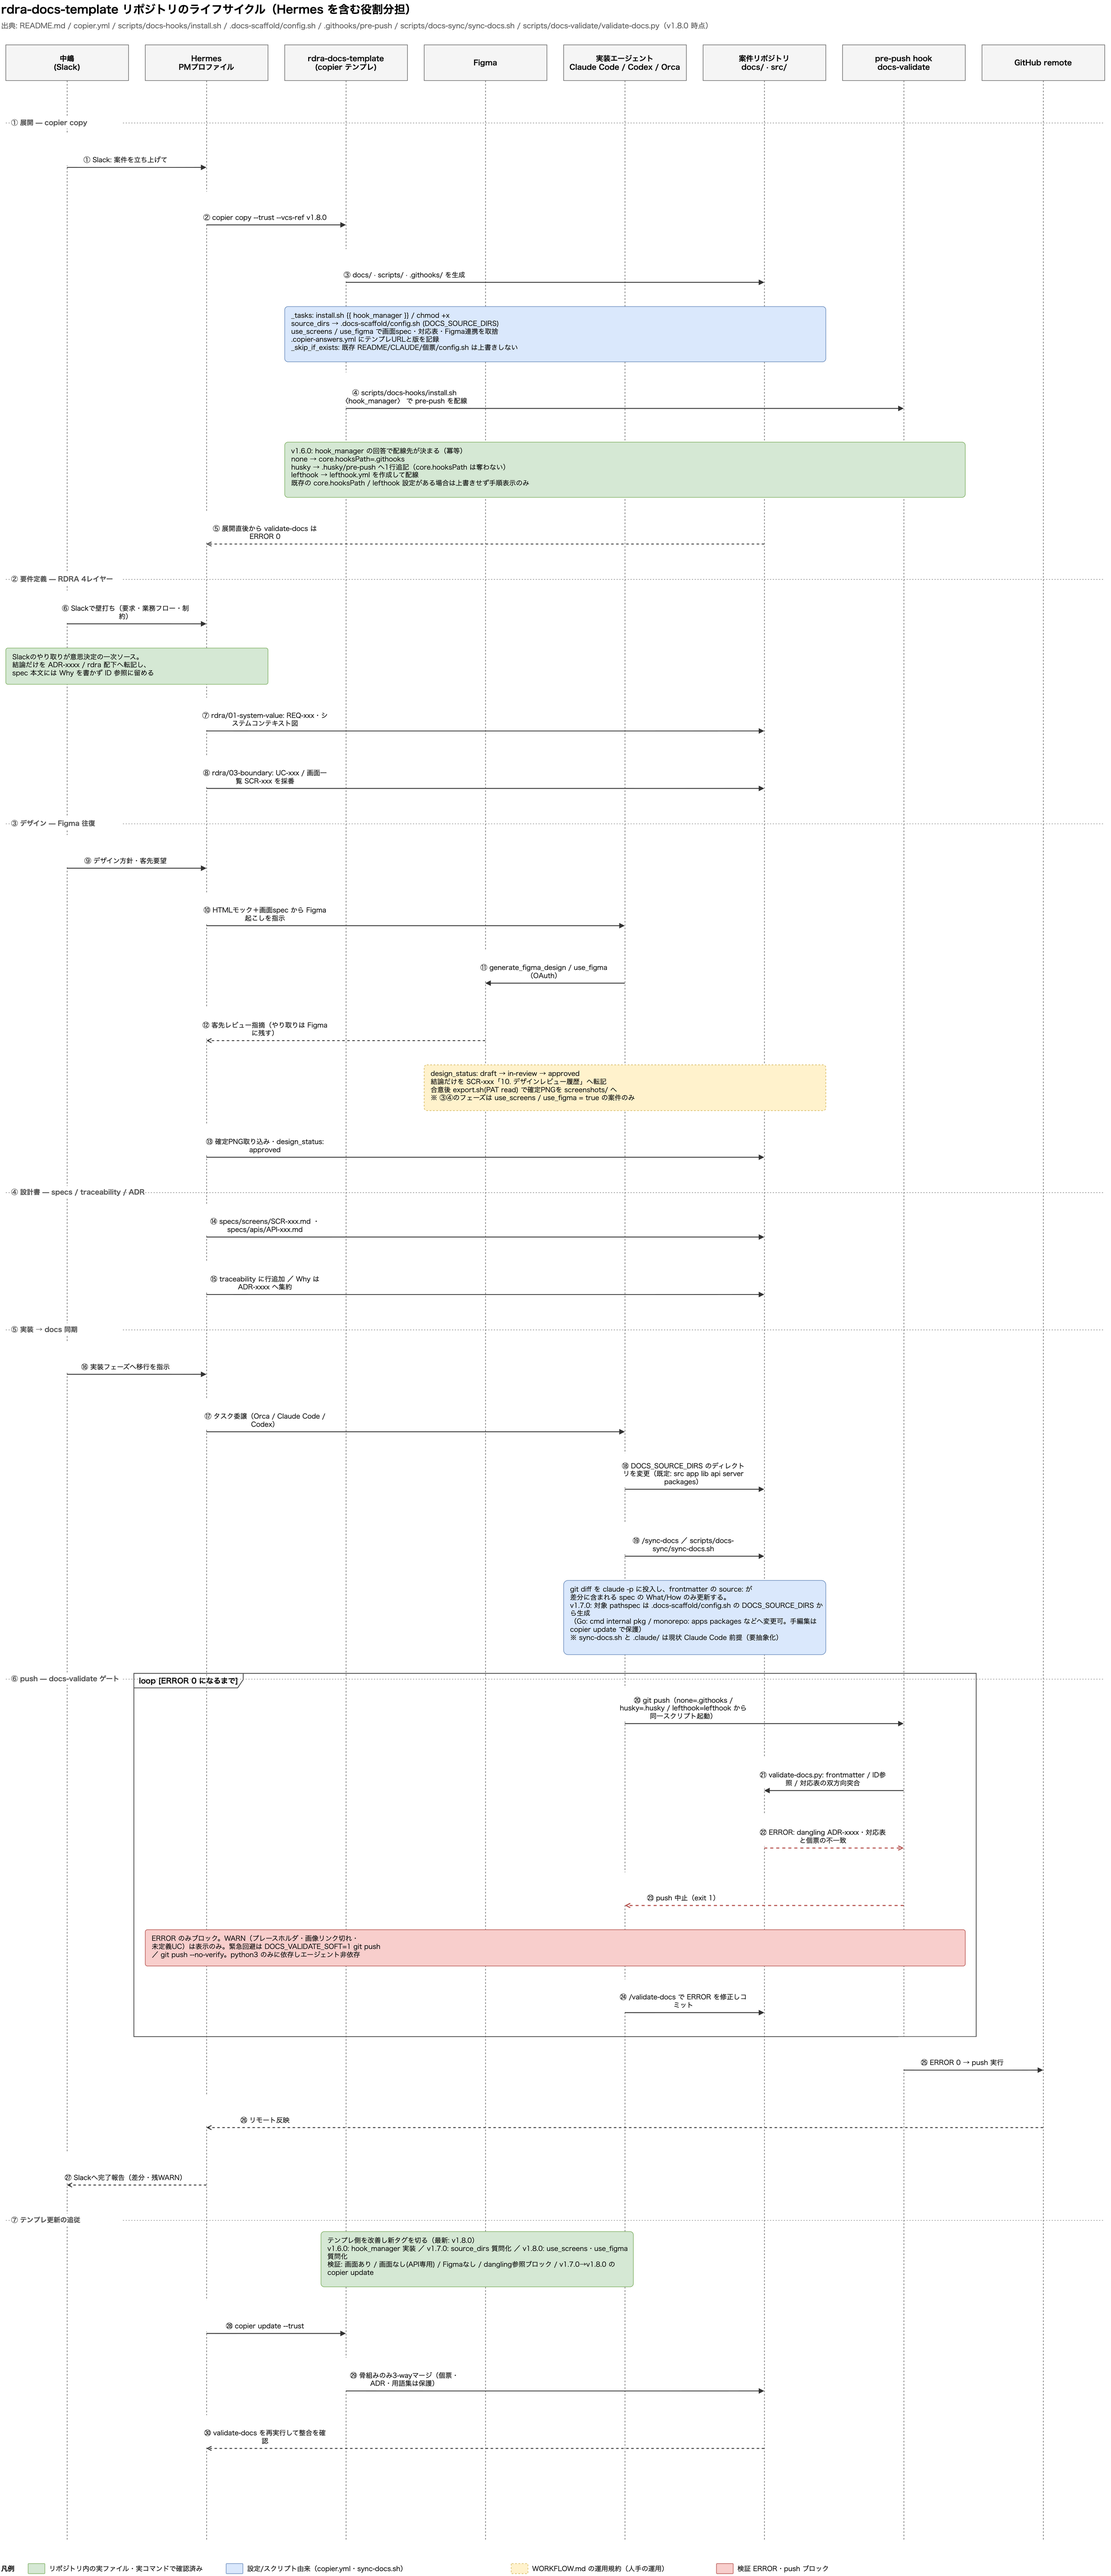
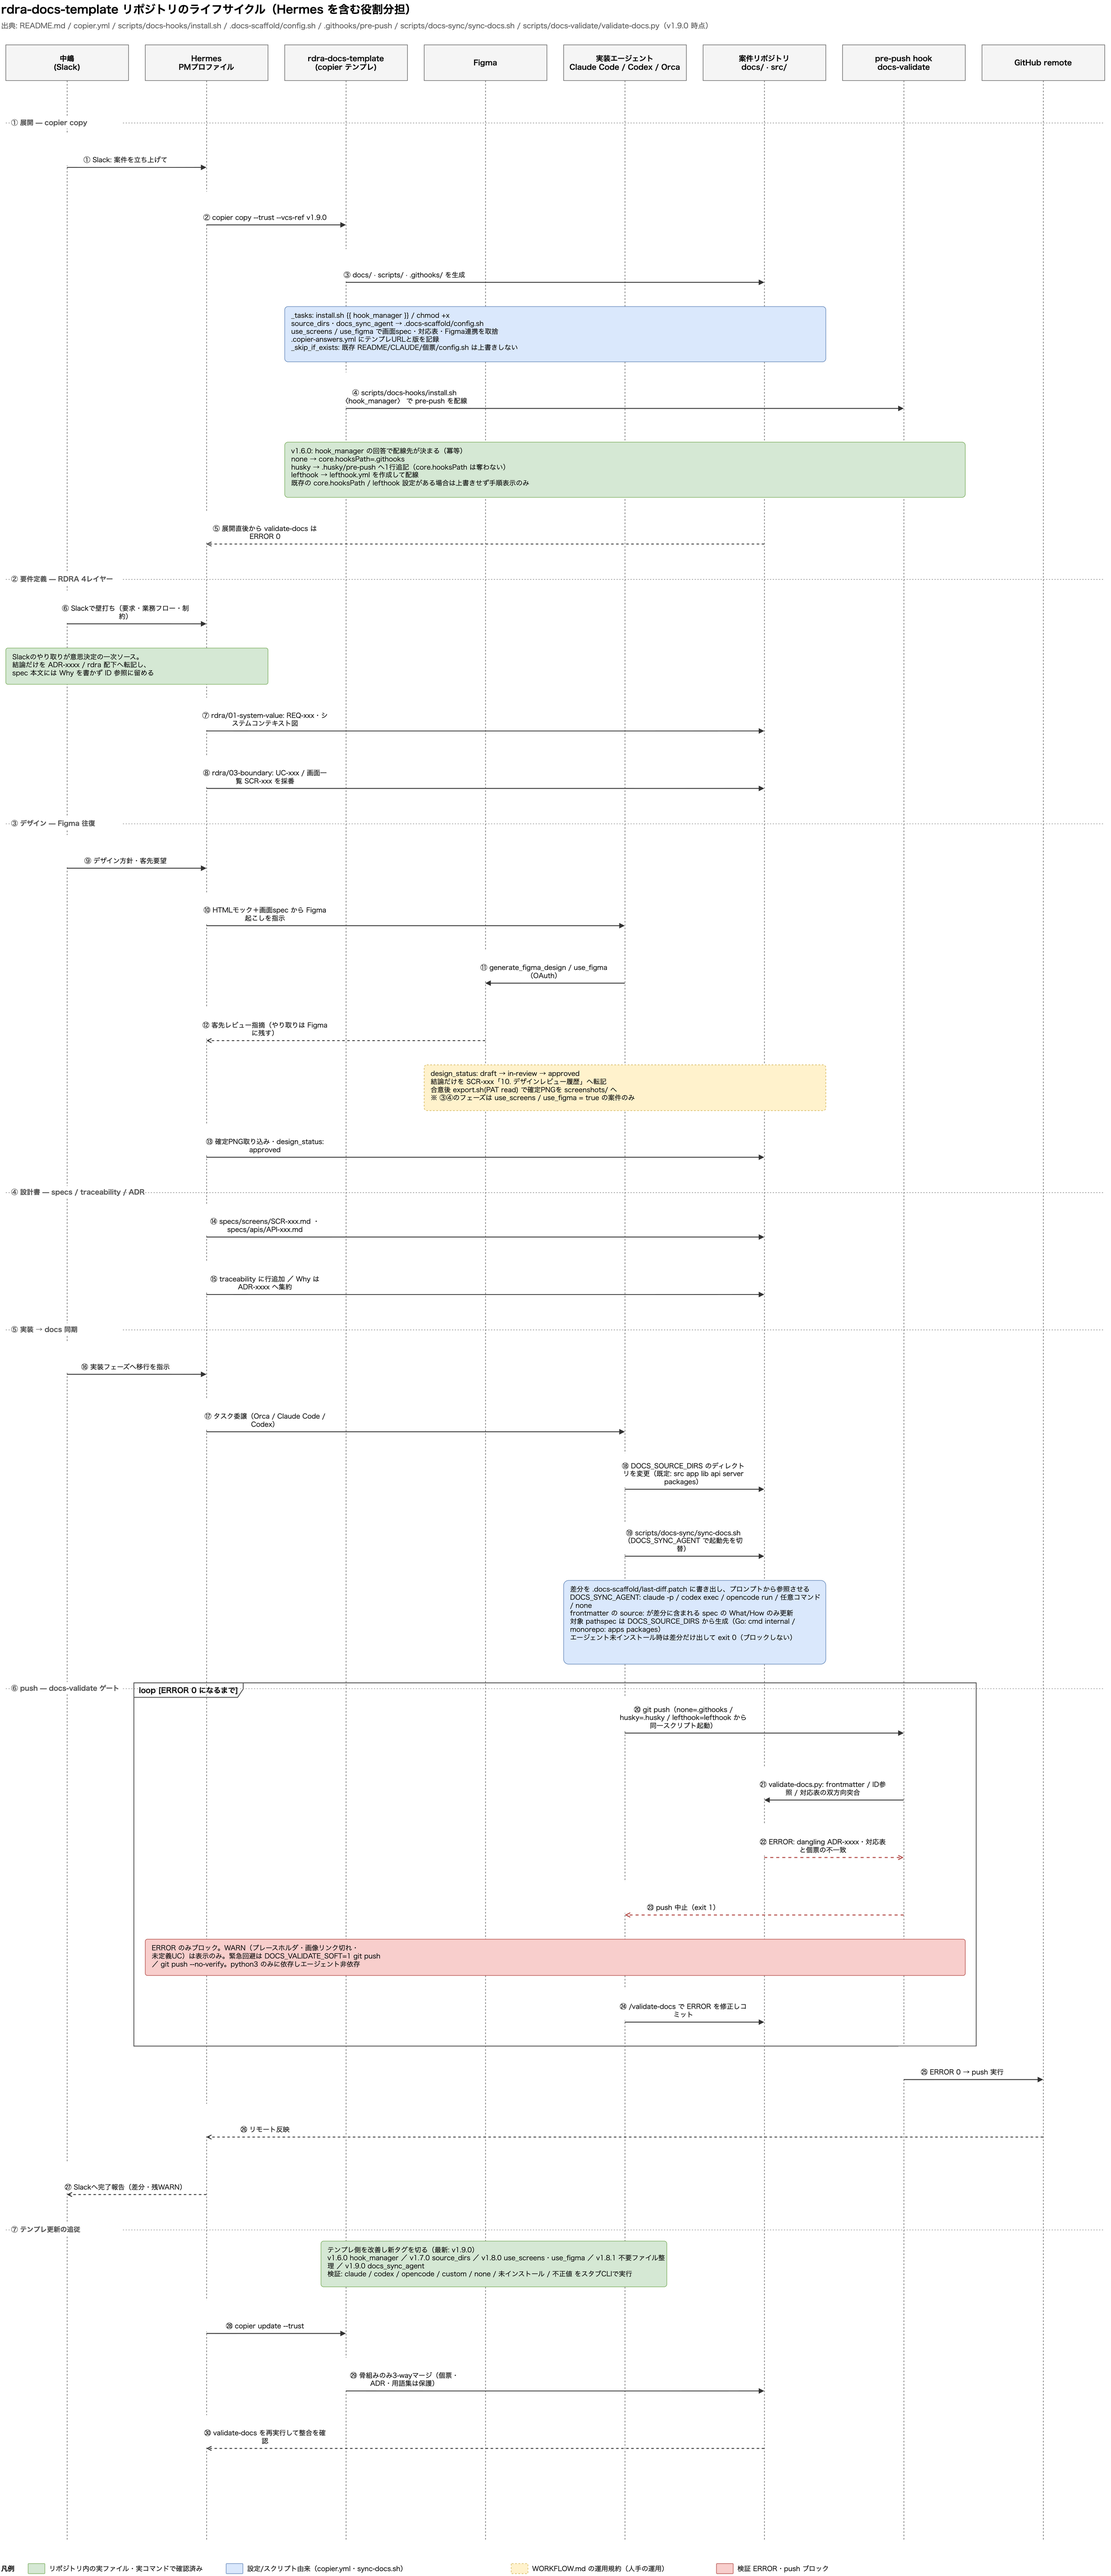
feat(sync): make the docs-sync agent a copier question
- sync-docs.sh hardcoded 'claude'; Codex/OpenCode users got a silent no-op
- new question docs_sync_agent (claude/codex/opencode/custom/none) + docs_sync_cmd, written to .docs-scaffold/config.sh
- diff is written to .docs-scaffold/last-diff.patch and referenced from the prompt instead of piping stdin, so any agent CLI works
- .claude/ is only shipped when docs_sync_agent=claude (directory itself is now conditional, no empty dirs)
- missing agent or none: emit the patch and exit 0, never block

diff --git a/README.md b/README.md
@@ -44,12 +44,20 @@ git status   # 追加されたファイルを確認してからコミット
 | `use_screens` | 画面設計書（`docs/specs/screens` と 画面×UC×API 対応表）を使うか。API専用/バッチ案件は `false` | `true` |
 | `use_figma` | Figma 連携スクリプト（`scripts/figma-export`）を同梱するか（`use_screens=true` の時だけ質問） | `use_screens` と同じ |
 | `source_dirs` | 実装ソースのディレクトリ（スペース区切り）。docs 未更新警告と docs-sync の対象範囲 | `src app lib api server packages` |
-| `use_claude_hook` | Claude Code の Stop フックで docs 自動メンテを有効にするか | `true` |
+| `docs_sync_agent` | docs 自動同期に使うエージェント（`claude` / `codex` / `opencode` / `custom` / `none`） | `claude` |
+| `docs_sync_cmd` | `docs_sync_agent=custom` のとき実行するコマンド（プロンプトが最後の引数） | （空） |
+| `use_claude_hook` | Claude Code の Stop フックで docs 自動メンテを有効にするか（`docs_sync_agent=claude` の時だけ質問） | `true` |
 | `hook_manager` | pre-push ゲートの配線先（none / husky / lefthook） | `none` |
 
 `use_screens=false` のとき、`docs/specs/screens/` と Figma 連携は配布されず、対応表は
 `docs/traceability/uc-api.md`（UC×API）になり、`docs/WORKFLOW.md` は画面工程を含まない API 版に差し替わる。
 検証スクリプトは `screen-uc-api.md` / `uc-api.md` のどちらでも動く。
+
+`docs_sync_agent` は `.docs-scaffold/config.sh` の `DOCS_SYNC_AGENT` に書き出され、`sync-docs.sh` が
+`claude -p` / `codex exec` / `opencode run` / 任意コマンド を起動し分ける。差分は常に
+`.docs-scaffold/last-diff.patch` に書き出してプロンプトから参照させるため（stdin 依存にしない）、
+エージェントを乗り換えてもスクリプト側の変更は不要。`none` と未インストール時は差分だけ出して exit 0。
+`claude` 以外を選ぶと `.claude/`（Stop フック・スラッシュコマンド）は配布されない。
 
 `source_dirs` の回答は `.docs-scaffold/config.sh` の `DOCS_SOURCE_DIRS` に書き出され、
 `.githooks/pre-push`（docs 未更新警告）と `scripts/docs-sync/sync-docs.sh`（同期対象の git diff）が参照する。
